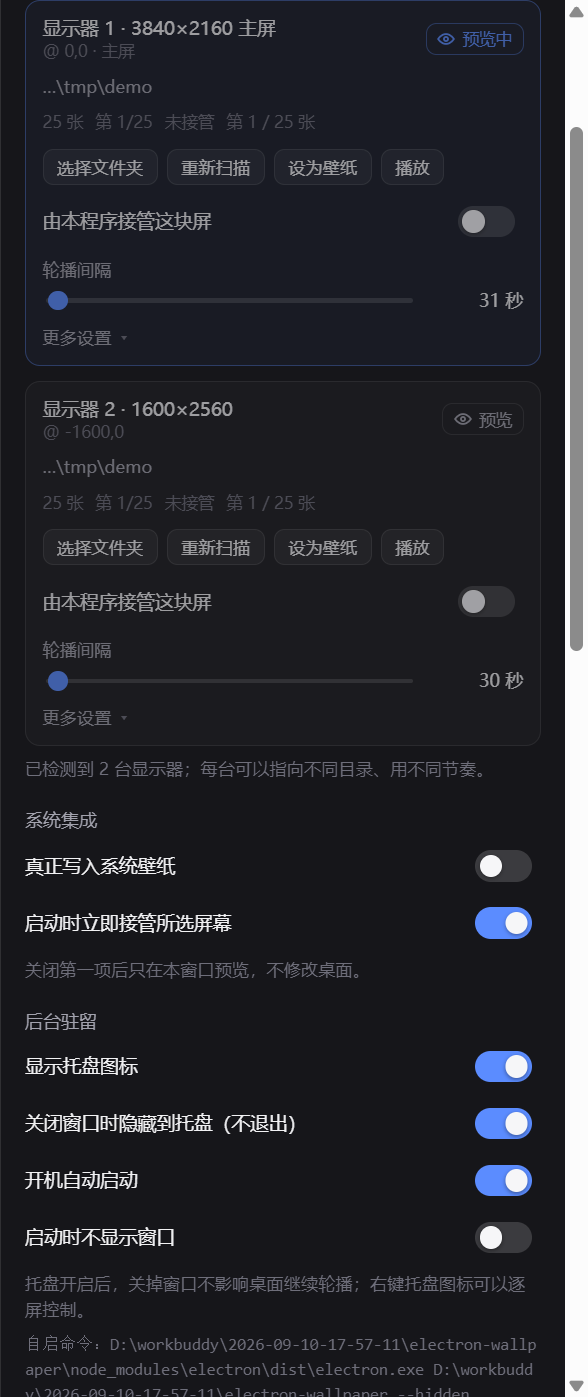
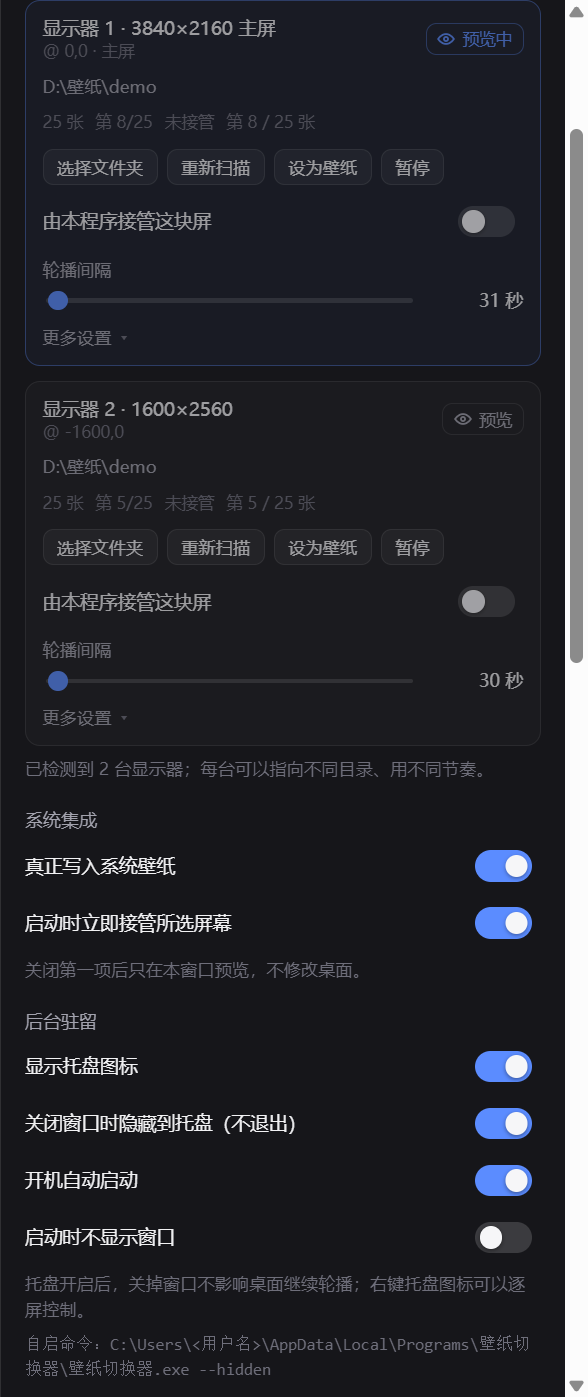
重拍 README 截图、补全脱敏，并补记第十三轮
上一版截图里「图片信息」面板与顶栏图名仍带着真实壁纸库路径。
原因不是漏配黑名单，而是脱敏只覆盖了设置面板与每屏文件夹，而这两处
在截图时是**关闭**的 —— DOM 里留着应用启动时按真实配置渲染的内容，
面板关着就永远等不到重渲染；而 assertNoLeak 扫的正是含隐藏元素的
textContent（故意的，截图可能把折叠内容也截进去）。

于是补 maskInfoPanel()：按运行时推导出来的黑名单，把顶栏图名与信息面板里的
真实串就地替换成演示图库路径（面板开着时内容本来就是演示素材，替换是空操作）；
maskSettingsPanel() 补上缩略图缓存目录。6 张截图全部重拍并通过自检。

同时抹掉 CHANGELOG 与 verify-monitor-cycle.js 注释里的真实显示器设备 ID
（面板型号 + UID + 设备实例路径），与新克隆者无关的个人硬件标识不再进公开仓库。

CHANGELOG 补记第十三轮：上一轮「功能本身没坏」的结论为什么只对了一半。

diff --git a/tools/screenshot-readme.js b/tools/screenshot-readme.js
@@ -250,9 +250,10 @@ const results = [];
   /** 截一张。selector 为空则截整个视口；pad 是四周留白（CSS px）。 */
   async function shot(name, selector, pad = 0) {
     await wake();
-    // 自启命令与快捷文件夹是「面板一渲染就用真实配置重填」的，光 setConfig 不会刷新 DOM。
+    // 自启命令、快捷文件夹、缩略图目录都是「面板一渲染就用真实配置重填」的，光 setConfig 不会刷新 DOM。
     // 所以放在这里：每次截图前都先抹一遍，紧接着自检，中间不留重渲染的窗口。
     await maskSettingsPanel();
+    await maskInfoPanel();
     await assertNoLeak(name);
     const params = { format: 'png', captureBeyondViewport: false };
     if (selector) {
@@ -364,20 +365,61 @@ const results = [];
    * 设置面板里有两处会直接暴露本机信息，截图前必须抹掉：
    *   1. `#login-hint` —— 显示开机自启的完整命令，内含 process.execPath（真实 exe 路径）
    *   2. `#quick-list` —— 快捷文件夹列表，渲染的是用户真实目录
+   *   3. `#thumb-dir` —— 缩略图缓存目录，默认值是用户主目录下的真实路径
    * 面板每次打开时 app.js 都会重新填充，所以每开一次就要抹一次。
    */
   async function maskSettingsPanel() {
     const fake = '自启命令：C:\\Users\\<用户名>\\AppData\\Local\\Programs\\壁纸切换器\\壁纸切换器.exe --hidden';
     const fakeTip = '每块屏的壁纸写入通道状态';
+    const fakeThumb = 'C:\\Users\\<用户名>\\AppData\\Roaming\\壁纸切换器\\thumbs';
     return ev(`(() => {
       const hint = document.querySelector('#login-hint');
       if (hint) hint.textContent = ${JSON.stringify(fake)};
       const list = document.querySelector('#quick-list');
       if (list) list.innerHTML = '';
+      const thumb = document.querySelector('#thumb-dir');
+      if (thumb) thumb.textContent = ${JSON.stringify(fakeThumb)};
       // 顶栏徽标的 title 里塞着完整诊断串（配置路径 + 壁纸库目录），截图用不上，换成一句无害的
       const badge = document.querySelector('#backend-badge');
       if (badge) badge.setAttribute('title', ${JSON.stringify(fakeTip)});
-      return { hint: !!hint, quick: list ? list.children.length : -1, badge: !!badge };
+      return { hint: !!hint, quick: list ? list.children.length : -1, thumb: !!thumb, badge: !!badge };
+    })()`);
+  }
+
+  /**
+   * 「图片信息」面板的脱敏。
+   *
+   * 为什么光靠重渲染不够：面板**关着**的时候里面的 DOM 还留着上一次的内容，
+   * 而 assertNoLeak 扫的是 textContent（含隐藏元素，故意的 —— 截图可能把折叠内容也截进去）。
+   * 应用启动时按真实配置渲染过一次，于是顶栏图名、所在文件夹、完整路径
+   * 全是真实壁纸库路径，面板关着永远等不到重渲染。
+   * 所以这里按黑名单把这些字段里的真实串**就地替换**成演示图库路径。
+   *
+   * 面板开着时（截「图片信息」那张）内容本来就是演示素材，替换是空操作，不会失真。
+   */
+  async function maskInfoPanel() {
+    return ev(`(() => {
+      const needles = ${JSON.stringify(LEAK_NEEDLES)}.slice().sort((a, b) => b.length - a.length);
+      const demo = ${JSON.stringify(DEMO)};
+      const scrub = (s) => {
+        let out = String(s == null ? '' : s);
+        for (const n of needles) out = out.split(n).join(demo);
+        return out;
+      };
+      let touched = 0;
+      const hit = (el, attr) => {
+        const raw = attr ? el.getAttribute(attr) : el.textContent;
+        const fixed = scrub(raw);
+        if (fixed === raw) return;
+        if (attr) el.setAttribute(attr, fixed); else el.textContent = fixed;
+        touched += 1;
+      };
+      const name = document.querySelector('#info-name');
+      if (name) { hit(name, null); hit(name, 'title'); }
+      for (const el of document.querySelectorAll('#info .ig-value, #info .ig-label')) {
+        hit(el, null); hit(el, 'title');
+      }
+      return touched;
     })()`);
   }
 

diff --git a/tools/verify-monitor-cycle.js b/tools/verify-monitor-cycle.js
@@ -460,8 +460,8 @@ const osCurrentOf = (device) => {
 
 /**
  * MONITOR 设备路径长得离谱，而且两块屏只有中段不同：
- *   \\?\DISPLAY#CYS1610#5&377eb0&0&UID33024#{e6f07b5f-…}
- *   \\?\DISPLAY#SAC2766#5&377eb0&0&UID33025#{e6f07b5f-…}
+ *   \\?\DISPLAY#AAAA1234#5&000000&0&UID00000#{xxxxxxxx-…}
+ *   \\?\DISPLAY#BBBB5678#5&000000&0&UID00001#{xxxxxxxx-…}
  * 简单掐头留尾（只留最后 34 字符）会把两块屏显示成同一个字符串，
  * 日志里就变成「A → A」，看不出到底切了没有。抓中段的型号 + UID 才有诊断价值。
  */

diff --git a/CHANGELOG.md b/CHANGELOG.md
@@ -176,7 +176,7 @@ npm run dist               # 打包（需先 npm i -D electron-builder）
 
 ```
 用户配置里真实存在的这一行：
-  "\\?\DISPLAY#SAC2766#…#{…}": { "shuffle": "random", "interval": 5, … }
+  "\\?\DISPLAY#AAAA1234#…#{…}": { "shuffle": "random", "interval": 5, … }
   → 解析出来 shuffle=false → 卡片高亮停在「按名称」，怎么点都回不到随机
 ```
 
@@ -793,6 +793,68 @@ out[wi] = aSum > 0 ? Math.round(r / aSum) : 0;
 新增第 8 节验证（`npm run verify:tray`）：把目标目录清空 → 删除 → 必须弹出明确原因；
 换回素材 → 删除 → 提示里要说清删了哪张、张数 -1。**75 项全过**。
 
+## 第十三轮：热键「不生效」的真根因 —— 录出来的绑定本身就唤不醒
+
+上一轮修完反馈通路，用户又反馈了一次「还是没生效」。**说明第十二轮的结论只对了一半**：
+反馈缺失确实该补，但没说清「为什么按下去真的没反应」。这一轮挖到了两个真正的根因。
+
+### 根因 1：录制只看 `e.key`，小键盘录出来的绑定永远唤不醒
+
+主键盘 `0` 和小键盘 `0` 的 `KeyboardEvent.key` **都是 `"0"`**，
+而 Electron 的 accelerator 语法**根本表达不了小键盘数字**：
+`Numpad0` 直接抛 `conversion failure`；`num0` 能注册成功，却一次都不触发。
+
+只按 `e.key` 换算，用小键盘录出来的就是一个**看着对、按下去没反应**的绑定 ——
+配置里躺着 `Ctrl+0`，界面上显示「已绑定 Ctrl + 0」，用户按小键盘 0 却毫无动静。
+
+决定性实测（不是照文档抄的）：
+
+| 实验 | 结果 |
+|---|---|
+| 逐个 `try/catch` 注册候选键名 | `Numpad0` / `NumpadDecimal` / `Decimal` → **抛异常**；`num0` / `Num0` → 注册成功 |
+| 注册 `Alt+Shift+0` 与 `Alt+Shift+num0`，各注入一次真实按键 | 主键盘 0 命中 `0`；**小键盘 0 一次都没命中 `num0`** |
+| 对照：注入后 `GetAsyncKeyState(0x60)` | `0xffff8001`（高位为 1）→ **系统确认小键盘确实被按下**，排除"注入路径有问题" |
+
+### 根因 2：`KEY_NAMES` 把标点映成了 Electron 不认的 DOM 名字
+
+原表把 `.` 映成 `Period`、`,` 映成 `Comma`、`-` 映成 `Minus`……
+而实测的结论刚好相反：**Electron 认字面字符 `.`、不认 `Period`**。
+
+| 合法（实测通过） | 非法（抛 conversion failure） |
+|---|---|
+| `0`–`9`、`A`–`Z`、`F1`–`F24` | `Numpad0`、`NumpadDecimal`、`Decimal` |
+| 字面标点 `` ` `` `-` `=` `[` `]` `\` `;` `'` `,` `.` `/` `~` `!` `@` `#` `$` `%` `^` `&` `*` `(` `)` `_` `{` `}` `\|` `:` `"` `<` `>` `?` | DOM 名 `Period` `Comma` `Slash` `Semicolon` `Quote` `BracketLeft` `BracketRight` `Backslash` `Backquote` `Minus` |
+| `Plus` `Space` `Return` `Enter` `Up` `Escape` `Delete` `Tab` | |
+
+于是录 `Ctrl+.` 会在配置里留下 `Ctrl+Period` —— 一个**永远注册不上**的绑定。
+`+` 单独注意：它是 accelerator 的分隔符，加号只能写 `Plus`。
+
+### 修法
+
+- `acceleratorFromEvent()` 改成**物理键优先**（`e.code` → `CODE_KEYS`）：用 code 才能区分
+  主键盘与小键盘，也不受输入法布局影响；
+- `Numpad*` **直接拒绝**并说清原因（「小键盘的键绑不上全局热键，请改用主键盘的数字」）——
+  与其静默存一个唤不醒的绑定，不如当场告诉用户；
+- 标点改用**字面字符**；拿不准的一律拒绝，**绝不把 Electron 不认识的字符串写进配置**；
+- 拒绝时**保持录制态**，用户只是按错了键，应该能直接换一个再按；
+- 主进程 `applyHotkeys()` 的 catch 里补 `explainAcceleratorError()`，把
+  `conversion failure from Ctrl+Period` 翻成「键名「Period」不是 Electron 认识的名字，改成「.」就行」——
+  **兜住历史遗留配置**，不用等用户再来问一次。
+
+### 验证（CDP 驱动真实录制流程，5/5）
+
+| 用例 | 期望 | 实测 |
+|---|---|---|
+| Ctrl + 小键盘 0 | 拒绝 + 保持录制态 | ✓ 提示「小键盘的键绑不上全局热键…」 |
+| Ctrl + 主键盘 0 | `Ctrl+0` 且注册成功 | ✓ |
+| Ctrl + `.` | `Ctrl+.` 且注册成功 | ✓ **旧代码在这里会存成非法的 `Ctrl+Period`** |
+| Ctrl + M | `Ctrl+M` | ✓ |
+| 单独按 5 | 拒绝 | ✓ 提示「必须带修饰键」 |
+
+顺带一提：用户自己先我一步找到了绕法 ——「之前是小键盘的 0，我换成字母上的就可以了」。
+这恰好印证了根因 1；但**绕得过去不等于没 bug**，静默存下一个唤不醒的绑定仍然是坑，
+所以还是按上面的方式修掉了。
+
 ## 每屏独立轮播（第一轮）
 
 系统自带的「幻灯片」只有一套全局配置，做不到「A 屏放这个目录、B 屏放那个目录」。
@@ -828,7 +890,7 @@ out[wi] = aSum > 0 ? Math.round(r / aSum) : 0;
   "interval": 60,
   "perMonitor": true,                // 打开每屏独立模式
   "monitors": {
-    "\\\\?\\DISPLAY#CYS1610#…#{…}": { // ← 只写与默认值不同的项
+    "\\\\?\\DISPLAY#BBBB5678#…#{…}": { // ← 只写与默认值不同的项
       "folder": "D:\\壁纸\\竖屏",
       "interval": 180
     }
